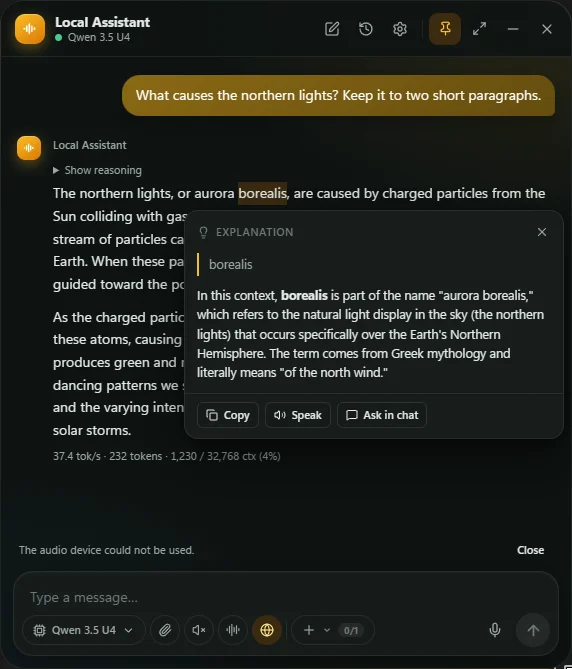
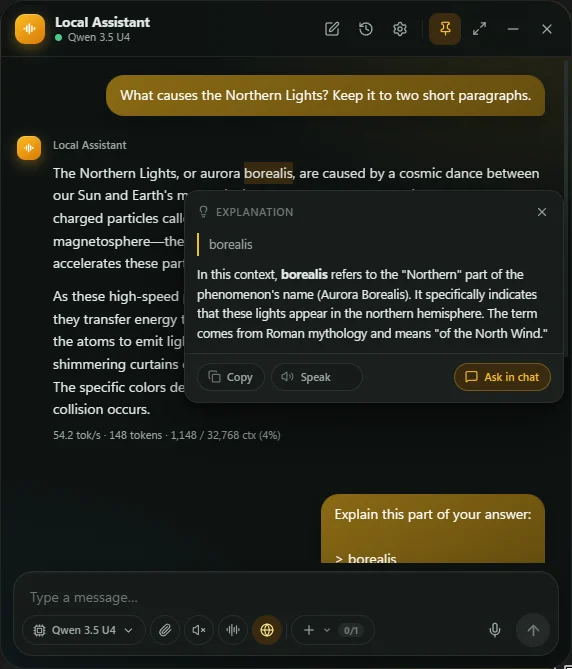
feat(explain): enhance Speak button with playback feedback and modernize action pills

diff --git a/src/components/chat/SelectionMenu.tsx b/src/components/chat/SelectionMenu.tsx
@@ -5,8 +5,12 @@ import { useChat } from "../../app/chatStore";
 import { ipc, newId } from "../../app/ipc";
 import { useSettings } from "../../app/settingsStore";
 import { errorMessage, t } from "../../app/strings";
+import { useVoice } from "../../app/voiceStore";
 import { textDir } from "../common/controls";
 import { Markdown } from "./Markdown";
+
+/** Gives up on the "preparing speech" spinner if playback never starts. */
+const PREPARE_TIMEOUT_MS = 90_000;
 
 /** Text selected inside one assistant reply. */
 interface Picked {
@@ -135,7 +139,7 @@ export function SelectionMenu() {
       {explain && (
         <ExplainPopover
           explanation={explain}
-          onSpeak={() => speak(explain.content, null)}
+          onSpeak={() => speak(explain.content, null, explain.id)}
           onAskInChat={() => {
             askInChat(explain);
             setExplain(null);
@@ -248,6 +252,24 @@ function ExplainPopover({ explanation: x, onSpeak, onAskInChat, onClose }: { exp
     window.setTimeout(() => setCopied(false), 1500);
   };
 
+  // The explanation is read aloud under its own tag, so this popup knows when
+  // its own speech starts and when it ends (TTS emits idle when it is done).
+  const speaking = useVoice((s) => s.speaking);
+  const speakingTag = useVoice((s) => s.speakingTag);
+  const isSpeaking = speaking && speakingTag === x.id;
+  // Synthesis takes a moment (longer when the voice model still has to load),
+  // so the button says so until the audio actually starts.
+  const [preparing, setPreparing] = useState(false);
+  useEffect(() => {
+    if (!preparing) return;
+    if (isSpeaking) {
+      setPreparing(false);
+      return;
+    }
+    const id = window.setTimeout(() => setPreparing(false), PREPARE_TIMEOUT_MS);
+    return () => window.clearTimeout(id);
+  }, [preparing, isSpeaking]);
+
   const done = x.status === "done" && x.content.trim().length > 0;
   return (
     <div
@@ -281,17 +303,66 @@ function ExplainPopover({ explanation: x, onSpeak, onAskInChat, onClose }: { exp
       </div>
       {done && (
         <div className="explain-actions">
-          <button className="btn btn-sm" onClick={copy}>
-            {copied ? <Check size={12} /> : <Copy size={12} />} {copied ? t("app.copied") : t("chat.selection.copy")}
+          <button
+            className={`xact${copied ? " done" : ""}`}
+            aria-label={copied ? t("app.copied") : t("chat.selection.copy")}
+            onClick={copy}
+          >
+            <span className="xact-icon">{copied ? <Check size={13} /> : <Copy size={13} />}</span>
+            {copied ? t("app.copied") : t("chat.selection.copy")}
           </button>
-          <button className="btn btn-sm" onClick={onSpeak}>
-            <Volume2 size={12} /> {t("chat.selection.speak")}
-          </button>
-          <button className="btn btn-sm" onClick={onAskInChat}>
-            <MessageSquare size={12} /> {t("chat.selection.askInChat")}
+          {isSpeaking || preparing ? (
+            <button
+              className={`xact speak${isSpeaking ? " speaking" : " preparing"}`}
+              aria-label={isSpeaking ? t("chat.stopSpeaking") : t("chat.preparingSpeech")}
+              title={isSpeaking ? t("chat.stopSpeaking") : t("chat.preparingSpeech")}
+              aria-pressed={isSpeaking}
+              onClick={() => {
+                setPreparing(false);
+                void ipc.ttsStop();
+              }}
+            >
+              {isSpeaking ? <SpeakingGlyph /> : <span className="spinner" aria-hidden />}
+              {isSpeaking ? t("chat.selection.speaking") : t("chat.selection.preparingSpeech")}
+            </button>
+          ) : (
+            <button
+              className="xact speak"
+              aria-label={t("chat.selection.speak")}
+              title={t("chat.selection.speak")}
+              onClick={() => {
+                setPreparing(true);
+                onSpeak();
+              }}
+            >
+              <span className="xact-icon">
+                <Volume2 size={13} />
+              </span>
+              {t("chat.selection.speak")}
+            </button>
+          )}
+          <button className="xact primary" aria-label={t("chat.selection.askInChat")} onClick={onAskInChat}>
+            <span className="xact-icon">
+              <MessageSquare size={13} />
+            </span>
+            {t("chat.selection.askInChat")}
           </button>
         </div>
       )}
     </div>
+  );
+}
+
+/** Animated bars shown on the Speak button while the explanation is read out. */
+function SpeakingGlyph() {
+  return (
+    <span className="xact-icon" aria-hidden>
+      <span className="xact-wave">
+        <span />
+        <span />
+        <span />
+        <span />
+      </span>
+    </span>
   );
 }

diff --git a/src/styles/chat.css b/src/styles/chat.css
@@ -1736,7 +1736,132 @@ html.launcher-window #root {
 }
 .explain-actions {
   display: flex;
+  align-items: center;
   gap: 6px;
-  padding: 8px 12px 10px;
+  padding: 9px 12px 11px;
   border-top: 1px solid var(--hairline);
+  background: color-mix(in srgb, var(--surface-2) 45%, transparent);
+  border-radius: 0 0 var(--radius-lg) var(--radius-lg);
+}
+
+/* Action pills: Copy / Speak / Ask in chat. */
+.xact {
+  display: inline-flex;
+  align-items: center;
+  gap: 6px;
+  height: 28px;
+  padding: 0 11px 0 9px;
+  border: 1px solid var(--border);
+  border-radius: 999px;
+  background: var(--surface);
+  color: var(--text-muted);
+  font: inherit;
+  font-size: var(--text-xs);
+  font-weight: 500;
+  white-space: nowrap;
+  cursor: pointer;
+  transition: background var(--dur-fast) var(--ease), border-color var(--dur-fast) var(--ease), color var(--dur-fast) var(--ease),
+    box-shadow var(--dur-fast) var(--ease), transform var(--dur-fast) var(--ease);
+}
+.xact:hover {
+  color: var(--text);
+  background: var(--card-hover, var(--surface-2));
+  border-color: var(--border-strong);
+  transform: translateY(-1px);
+  box-shadow: var(--shadow-sm);
+}
+.xact:active {
+  transform: translateY(0) scale(0.97);
+}
+.xact:focus-visible {
+  outline: 2px solid var(--focus);
+  outline-offset: 2px;
+}
+.xact-icon {
+  display: inline-flex;
+  align-items: center;
+  justify-content: center;
+  width: 14px;
+  height: 14px;
+  flex: none;
+  color: var(--text-faint);
+  transition: color var(--dur-fast) var(--ease);
+}
+.xact:hover .xact-icon {
+  color: var(--text);
+}
+.xact.primary {
+  margin-inline-start: auto;
+  color: var(--accent);
+  background: var(--accent-soft);
+  border-color: color-mix(in srgb, var(--accent) 30%, transparent);
+}
+.xact.primary .xact-icon,
+.xact.primary:hover .xact-icon {
+  color: currentcolor;
+}
+.xact.primary:hover {
+  color: var(--accent);
+  background: color-mix(in srgb, var(--accent) 18%, transparent);
+  border-color: color-mix(in srgb, var(--accent) 45%, transparent);
+}
+.xact.done {
+  color: var(--accent);
+  border-color: color-mix(in srgb, var(--accent) 35%, transparent);
+  background: var(--accent-soft);
+}
+.xact.done .xact-icon {
+  color: currentcolor;
+}
+
+/* Speak: preparing (spinner) and speaking (animated bars) states. */
+.xact.speak {
+  min-width: 92px;
+}
+.xact.preparing,
+.xact.speaking {
+  color: var(--accent);
+  background: var(--accent-soft);
+  border-color: color-mix(in srgb, var(--accent) 35%, transparent);
+  cursor: pointer;
+}
+.xact.speaking {
+  box-shadow: 0 0 0 3px color-mix(in srgb, var(--accent) 12%, transparent);
+}
+.xact .spinner {
+  width: 13px;
+  height: 13px;
+  border-width: 2px;
+}
+.xact-wave {
+  display: flex;
+  align-items: center;
+  gap: 2px;
+  height: 13px;
+}
+.xact-wave > span {
+  width: 2px;
+  height: 100%;
+  border-radius: 2px;
+  background: currentcolor;
+  transform: scaleY(0.3);
+  animation: xact-wave 0.9s var(--ease) infinite;
+}
+.xact-wave > span:nth-child(2) {
+  animation-delay: 0.12s;
+}
+.xact-wave > span:nth-child(3) {
+  animation-delay: 0.24s;
+}
+.xact-wave > span:nth-child(4) {
+  animation-delay: 0.36s;
+}
+@keyframes xact-wave {
+  0%,
+  100% {
+    transform: scaleY(0.3);
+  }
+  50% {
+    transform: scaleY(1);
+  }
 }

diff --git a/src/test/selection.test.tsx b/src/test/selection.test.tsx
@@ -1,9 +1,10 @@
-import { act, fireEvent, render, screen } from "@testing-library/react";
+import { act, fireEvent, render, screen, waitFor } from "@testing-library/react";
 import { beforeEach, describe, expect, it, vi } from "vitest";
 import { invoke } from "@tauri-apps/api/core";
 import { useChat } from "../app/chatStore";
 import { useSettings } from "../app/settingsStore";
 import type { ExplainEvent, Settings } from "../app/types";
+import { useVoice } from "../app/voiceStore";
 import { SelectionMenu } from "../components/chat/SelectionMenu";
 
 // jsdom has no layout; a selection still needs a rectangle to anchor to.
@@ -113,5 +114,37 @@ describe("selected text menu", () => {
     const id = (vi.mocked(invoke).mock.calls.find(([c]) => c === "chat_explain")![1] as { id: string }).id;
     fireEvent.keyDown(document, { key: "Escape" });
     expect(invoke).toHaveBeenCalledWith("chat_stop", { turnId: id });
+  });
+
+  it("shows the explanation is being spoken, and stops it on click", async () => {
+    useExplainMode("popup");
+    useVoice.setState({ speaking: false, speakingTag: null });
+    let onEvent: ((e: ExplainEvent) => void) | undefined;
+    vi.mocked(invoke).mockImplementation(async (cmd: string, args?: unknown) => {
+      if (cmd === "chat_explain") onEvent = (args as { onEvent: { onmessage: (e: ExplainEvent) => void } }).onEvent.onmessage;
+      return undefined;
+    });
+    renderReply();
+    selectWord("Photosynthese");
+    fireEvent.click(screen.getByRole("menuitem", { name: "Explain" }));
+    const id = (vi.mocked(invoke).mock.calls.find(([c]) => c === "chat_explain")![1] as { id: string }).id;
+    act(() => {
+      onEvent!({ type: "delta", text: "Plants turn light into energy." });
+      onEvent!({ type: "done" });
+    });
+
+    fireEvent.click(screen.getByRole("button", { name: "Speak" }));
+    expect(invoke).toHaveBeenCalledWith("tts_speak", { text: "Plants turn light into energy.", language: null, tag: id });
+    expect(screen.getByRole("button", { name: /Preparing/ })).toBeInTheDocument();
+
+    // Synthesis finishes and the audio starts: the button follows the speech.
+    act(() => useVoice.setState({ speaking: true, speakingTag: id }));
+    await waitFor(() => expect(screen.getByRole("button", { name: "Stop speaking" })).toHaveTextContent("Speaking…"));
+
+    // Playing: clicking stops the speech instead of queueing it again.
+    fireEvent.click(screen.getByRole("button", { name: "Stop speaking" }));
+    expect(invoke).toHaveBeenCalledWith("tts_stop");
+    act(() => useVoice.setState({ speaking: false, speakingTag: null }));
+    expect(screen.getByRole("button", { name: "Speak" })).toBeInTheDocument();
   });
 });

diff --git a/specs/runtime.md b/specs/runtime.md
@@ -365,4 +365,5 @@ coverage completeness but are **not** deep-analysed: they carry no code semantic
 - [2026-09-29T02:14:00Z] Excluded thinking/reasoning process from Explain popup. In `LmStudioService::chat`, ensured reasoning tokens in SSE chunks are strictly separated and never fall back to `choice["text"]` or `delta["text"]` as content. In `orchestrator.rs::explain`, removed reasoning fallback from the popup delta emitter so the popup renders only the final explanation text, filtering out internal thinking scratchpads. Unit tests updated and verified.
 - [2026-09-29T02:27:00Z] Resolved `(no content generated)` recurrence for reasoning models in Explain popup. In `explain.rs`, removed artificial `max_tokens` cap (which prematurely cut off reasoning models mid-thought before producing visible content) and added instruction in `EXPLAIN_PROMPT` to keep thinking brief. In `orchestrator.rs::explain`, clarified length-limit diagnostic if token limit is reached, maintaining clean visible-only content streaming for the popup. Unit tests verified (171 passed).
 - [2026-09-29T02:40:00Z] Fixed `upload-release.bat` to force-update the release tag to the pushed `HEAD` before creating/updating the release, ensuring GitHub's source-code archives track the published source. Updated release instructions in `README.md`, `specs/developer_guide.md`, and `specs/full_documentation.md`.
+- [2026-09-29T03:20:00Z] Explain popup: modernised the Copy / Speak / Ask in chat actions and gave Speak real playback feedback. The three `.btn.btn-sm` became `.xact` pills (28px, fully rounded, tinted footer, hover lift + press scale, accent-tinted primary action pinned right). Speak is now tagged with the explanation's own id, so the popover tracks its own audio via `useVoice.speaking`/`speakingTag`: **Speak → "Preparing…" (spinner) → "Speaking…" (animated 4-bar `.xact-wave` + accent ring) → Speak** when TTS emits `idle`; clicking while preparing or speaking calls `tts_stop`, and `PREPARE_TIMEOUT_MS` (90s) clears the spinner if no voice ever starts. New strings `chat.selection.speaking` / `chat.selection.preparingSpeech`. Test `shows the explanation is being spoken, and stops it on click` added (142 UI tests pass).
 

diff --git a/specs/full_documentation.md b/specs/full_documentation.md
@@ -362,6 +362,17 @@ drop veil, level meter, voice bars, and the call screen.
   `width: min(320px, calc(100vw - 32px))`, `z-index: 30`. `.ctx-menu` is
   `position: fixed; z-index: 60; min-width: 168px`. `.explain-pop` is
   `z-index: 55; width: min(380px, calc(100vw - 16px))`.
+- **Explain action pills:** `.explain-actions` is a tinted footer
+  (`--surface-2` at 45%, rounded with the popover). Its buttons are `.xact`
+  pills — 28px tall, `border-radius: 999px`, `--text-xs`, muted label, icon in
+  `.xact-icon` (`--text-faint`, → `--text` on hover), `translateY(-1px)` +
+  `--shadow-sm` on hover and `scale(0.97)` on press. `.xact.primary` ("Ask in
+  chat") is accent-tinted and pinned to the end with `margin-inline-start: auto`.
+  `.xact.speak` has a `min-width: 92px` so the label does not make the footer
+  jump while the state changes. State classes: `.done` (copy confirmed),
+  `.preparing` (spinner + "Preparing…") and `.speaking` (accent fill + 3px
+  accent ring). `.xact-wave` is four 2px bars animated by `@keyframes xact-wave`
+  (`scaleY(0.3 → 1)`, 0.9s, 0.12s stagger) — the speak indicator.
 - **Masked scroll:** `.spoken` fades its edges with
   `mask-image: linear-gradient(transparent, #000 18%, #000 82%, transparent)` and
   hides its scrollbar.
@@ -4907,6 +4918,14 @@ const MAX_PASSAGE_CHARS:  usize = 12_000;
 - The UI decides where the answer appears: `settings.ai.explain_mode` is
   `"chat"` (send a follow-up message) or `"popup"` (show the popover beside the
   selection). `SelectionMenu` reads that setting — see §4.10.
+- **Reading the popup aloud is tagged with the explanation's own id**
+  (`tts_speak(text, null, explain.id)`), so the popup follows *its* speech
+  through `useVoice.speaking` / `speakingTag` and ignores speech started
+  elsewhere. The button moves Speak → "Preparing…" (spinner) → "Speaking…"
+  (animated bars) → Speak again when TTS emits `idle`; clicking it while
+  preparing or speaking calls `tts_stop`. `PREPARE_TIMEOUT_MS` (90s) drops the
+  spinner when the voice never becomes available — the same guard
+  `MessageBubble` uses for "Read aloud".
 
 ### Dependencies
 `services::ai::{ChatMessage, ChatRequest}`, `serde::Serialize`.
